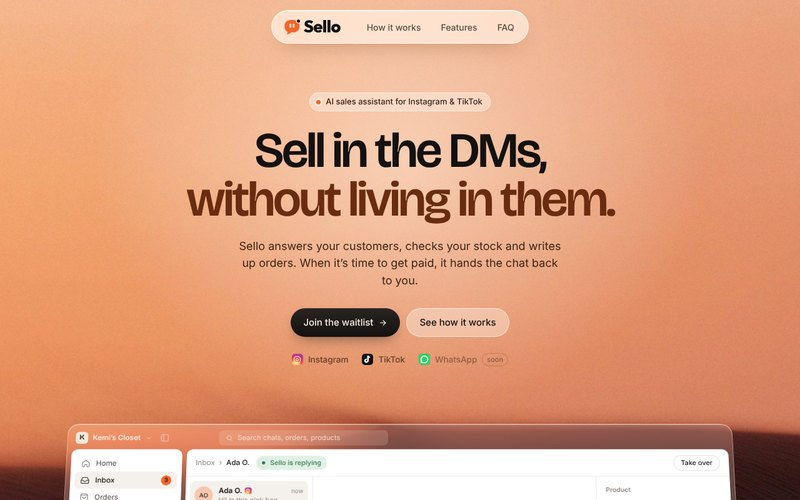
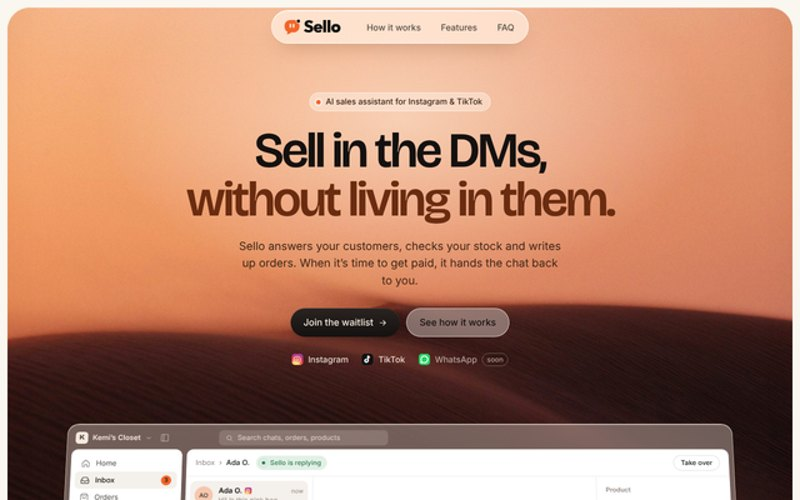
Sello: seamless hero, simpler floating CTA, higher-contrast feature cards
- Hero photo sits on a rounded canvas that stops mid-dashboard, so the
  product bridges into the next section with no fade band
- Floating waitlist button springs up from below the screen once the
  hero button is out of sight, and drops away near the final CTA
- Feature backdrops are crisp, dimmed blurred windows; cards are solid
  with a hairline ring and layered shadow
- Keep backdrop blur under reduced motion

Claude-Session: https://claude.ai/code/session_01AhNeQxAZetA7TYecp9egBs

diff --git a/sello/styles.css b/sello/styles.css
@@ -175,10 +175,11 @@ ul, ol { list-style: none; }
 /* =========================================================
    HERO — dusk photo, centred copy, dashboard that zooms in
    ========================================================= */
-.hero { --py: 0px; --hz: 0; position: relative; overflow: hidden; isolation: isolate; padding: 148px 0 120px; background: var(--sky-1); }
-.hero::after { content: ""; position: absolute; left: 0; right: 0; bottom: 0; height: 220px; z-index: 1; background: linear-gradient(180deg, rgba(250, 246, 240, 0), var(--bg) 92%); pointer-events: none; }
-.hero__scene { position: absolute; inset: 0; z-index: 0; }
-.hero__bg { position: absolute; left: 0; top: 0; width: 100%; height: 100%; max-width: none; object-fit: cover; object-position: 50% 58%; transform: translate3d(0, calc(var(--py) * .3), 0) scale(calc(1.04 + var(--hz) * .04)); transform-origin: 50% 30%; will-change: transform; }
+.hero { --py: 0px; --hz: 0; --stage-h: 660px; --hero-pb: 40px; --frame: 12px; --frame-r: 36px; position: relative; overflow: visible; overflow-x: clip; isolation: isolate; padding: 148px 0 var(--hero-pb); background: var(--bg); }
+/* the photo lives on a rounded canvas that stops halfway down the product, so the dashboard bridges straight into the page */
+.hero__scene { position: absolute; top: var(--frame); left: var(--frame); right: var(--frame); bottom: calc(var(--hero-pb) + var(--stage-h) * .46); z-index: 0; overflow: hidden; border-radius: var(--frame-r); background: var(--sky-1); box-shadow: inset 0 0 0 1px rgba(80, 30, 8, .06); }
+.hero__scene::after { content: ""; position: absolute; inset: 0; border-radius: inherit; box-shadow: inset 0 -60px 100px -60px rgba(60, 20, 4, .22), inset 0 1px 0 rgba(255, 255, 255, .25); pointer-events: none; }
+.hero__bg { position: absolute; left: 0; top: 0; width: 100%; height: 100%; max-width: none; object-fit: cover; object-position: 50% 30%; transform: translate3d(0, calc(var(--py) * .3), 0) scale(calc(1.04 + var(--hz) * .04)); transform-origin: 50% 30%; will-change: transform; }
 .hero__haze { position: absolute; inset: 0; background: radial-gradient(55% 40% at 50% 18%, rgba(255, 232, 214, .65), transparent 70%); }
 .hero__inner { position: relative; z-index: 2; }
 .hero__copy { max-width: 820px; margin: 0 auto; text-align: center; display: flex; flex-direction: column; align-items: center; }
@@ -186,10 +187,10 @@ ul, ol { list-style: none; }
 .hero__title em { font-style: normal; color: #6A2C10; }
 .hero__sub { margin-top: 22px; max-width: 520px; font-size: 18px; line-height: 1.55; color: #3B2417; text-wrap: pretty; }
 .hero__ctas { display: flex; flex-wrap: wrap; justify-content: center; gap: 10px; margin-top: 30px; }
-.hero__channels { display: flex; flex-wrap: wrap; justify-content: center; gap: 10px 22px; margin-top: 26px; font-size: 13.5px; font-weight: 500; color: rgba(59, 36, 23, .78); }
+.hero__channels { display: flex; flex-wrap: wrap; justify-content: center; gap: 10px 22px; margin-top: 26px; font-size: 13.5px; font-weight: 500; color: rgba(255, 242, 232, .88); text-shadow: 0 1px 8px rgba(40, 12, 2, .35); }
 .hero__channels li { display: inline-flex; align-items: center; gap: 8px; }
-.hero__channels li.is-soon { color: rgba(59, 36, 23, .5); }
-.hero__channels li span { font-size: 11px; padding: 1px 7px; border-radius: 999px; border: 1px solid rgba(59, 36, 23, .2); }
+.hero__channels li.is-soon { color: rgba(255, 242, 232, .6); }
+.hero__channels li span { font-size: 11px; padding: 1px 7px; border-radius: 999px; border: 1px solid rgba(255, 242, 232, .3); }
 .js [data-split] .w { display: inline-block; opacity: 0; transform: translateY(0.3em); filter: blur(8px); transition: opacity .9s var(--ease), transform 1s var(--ease), filter .9s var(--ease); transition-delay: calc(var(--i) * 50ms + 100ms); }
 .js [data-split].is-in .w { opacity: 1; transform: none; filter: none; }
 .js [data-rise] { opacity: 0; transform: translateY(12px); transition: opacity .9s var(--ease), transform 1s var(--ease); }
@@ -198,11 +199,11 @@ ul, ol { list-style: none; }
 .js .hero.is-in .hero__ctas { transition-delay: .5s; }
 .js .hero.is-in .hero__channels { transition-delay: .6s; }
 
-.hero__stage { position: relative; z-index: 2; width: min(1180px, calc(100% - var(--gutter) * 2)); height: 660px; margin: 56px auto 0; perspective: 1800px; }
+.hero__stage { position: relative; z-index: 2; width: min(1180px, calc(100% - var(--gutter) * 2)); height: var(--stage-h); margin: 56px auto 0; perspective: 1800px; }
 .hero__stage-inner { position: absolute; inset: 0; transform-origin: 50% 0%; transform: translate3d(0, calc((1 - var(--hz)) * 36px), 0) scale(calc(.9 + var(--hz) * .1)) rotateX(calc((1 - var(--hz)) * 9deg)); will-change: transform; }
 .js .hero__stage { opacity: 0; translate: 0 60px; transition: opacity 1.2s var(--ease) .45s, translate 1.5s var(--ease) .45s; }
 .js .hero.is-in .hero__stage { opacity: 1; translate: 0 0; }
-.hero .dash { background: rgba(255, 238, 226, .22); border-color: rgba(255, 236, 222, .45); box-shadow: inset 0 1px 0 rgba(255, 255, 255, .55), 0 60px 120px -50px rgba(40, 12, 2, .8), 0 0 0 1px rgba(60, 20, 6, .08); }
+.hero .dash { background: rgba(255, 240, 230, .34); border-color: rgba(255, 240, 228, .6); backdrop-filter: blur(18px) saturate(1.2); -webkit-backdrop-filter: blur(18px) saturate(1.2); box-shadow: inset 0 1px 0 rgba(255, 255, 255, .6), 0 0 0 1px rgba(60, 20, 6, .07), 0 2px 4px rgba(60, 20, 6, .05), 0 40px 80px -40px rgba(70, 26, 6, .45), 0 90px 140px -70px rgba(70, 26, 6, .35); }
 .hero .dash__top { color: rgba(255, 244, 236, .92); }
 .hero .dash__panelico { opacity: .7; }
 .hero .dash__search { background: rgba(255, 244, 236, .16); color: rgba(255, 244, 236, .75); }
@@ -211,11 +212,13 @@ ul, ol { list-style: none; }
 /* =========================================================
    FLOATING WAITLIST BUTTON
    ========================================================= */
-.float-cta { position: fixed; left: 50%; bottom: 26px; z-index: 60; transform: translateX(-50%); opacity: 0; pointer-events: none; box-shadow: 0 20px 44px -16px rgba(20, 17, 16, .6), 0 0 0 5px rgba(255, 252, 248, .55); transition: opacity .25s ease, box-shadow .3s ease; }
-.float-cta.is-on { opacity: 1; pointer-events: auto; }
+.float-cta { position: fixed; left: 50%; bottom: max(24px, env(safe-area-inset-bottom)); z-index: 60; visibility: hidden; pointer-events: none; transform: translate3d(-50%, calc(100% + 60px), 0); box-shadow: 0 20px 44px -16px rgba(20, 17, 16, .6), 0 0 0 5px rgba(255, 252, 248, .6); transition: transform .38s cubic-bezier(.55, 0, .8, .4), visibility 0s linear .38s, box-shadow .3s ease; }
+.float-cta.is-on { visibility: visible; pointer-events: auto; transform: translate3d(-50%, 0, 0); transition: transform .62s cubic-bezier(.32, 1.45, .52, 1), visibility 0s, box-shadow .3s ease; }
+.float-cta .btn__arrow { transition: transform .5s var(--ease); }
+.float-cta:not(.is-on) .btn__arrow { transform: translateX(-6px); }
+.float-cta.is-on .btn__arrow { transition-delay: .25s; }
 .float-cta.is-on:hover { box-shadow: 0 24px 50px -16px rgba(20, 17, 16, .7), 0 0 0 5px rgba(255, 252, 248, .75); }
-[data-fly-origin], [data-fly-target] { transition: opacity .2s ease; }
-.is-away { opacity: 0 !important; pointer-events: none; }
+.float-cta.is-on:active { transform: translate3d(-50%, 0, 0) scale(.97); }
 
 /* =========================================================
    HOW — Calendly-style list + gradient stage with floating card
@@ -325,7 +328,11 @@ ul, ol { list-style: none; }
 .frow__text h3 { font-size: 17px; font-weight: 600; letter-spacing: -0.01em; }
 .frow__text p { margin-top: 8px; max-width: 320px; font-size: 15px; line-height: 1.6; color: var(--muted); }
 .frow__media { --mz: 1; position: relative; justify-self: center; width: min(460px, 100%); aspect-ratio: 1.08; display: grid; place-items: center; }
-.frow__bg { position: absolute; inset: 6% 10%; width: 80%; height: 88%; max-width: none; object-fit: cover; border-radius: 48px; -webkit-mask-image: linear-gradient(90deg, transparent, #000 12%, #000 88%, transparent), linear-gradient(180deg, transparent, #000 12%, #000 88%, transparent); -webkit-mask-composite: source-in; mask-image: linear-gradient(90deg, transparent, #000 12%, #000 88%, transparent), linear-gradient(180deg, transparent, #000 12%, #000 88%, transparent); mask-composite: intersect; filter: saturate(1.1) blur(6px); transform: scale(calc(var(--mz) * .86)); opacity: 0; transition: opacity 1.1s ease, transform .2s linear; }
+.frow__media { --tile-r: 40px; }
+/* backdrop: a crisp rounded window onto a blurred, slightly dimmed photo, so the white UI in front reads clearly */
+.frow__bg { position: absolute; inset: 5% 8%; width: 84%; height: 90%; max-width: none; object-fit: cover; border-radius: var(--tile-r); clip-path: inset(0 round var(--tile-r)); filter: blur(16px) saturate(1.25) brightness(.8) contrast(1.05); transform: scale(calc(var(--mz) * .86)); opacity: 0; transition: opacity 1.1s ease, transform .2s linear; }
+.frow__media::before { content: ""; position: absolute; inset: 5% 8%; z-index: 0; border-radius: var(--tile-r); background: radial-gradient(70% 60% at 50% 45%, transparent 40%, rgba(24, 10, 4, .22)), linear-gradient(180deg, rgba(255, 255, 255, .06), rgba(24, 10, 4, .12)); box-shadow: inset 0 0 0 1px rgba(255, 255, 255, .2), inset 0 1px 0 rgba(255, 255, 255, .35), 0 50px 90px -50px rgba(60, 24, 6, .6); transform: scale(calc(var(--mz) * .86)); opacity: 0; transition: opacity 1.1s ease, transform .2s linear; pointer-events: none; }
+.frow.is-in .frow__media::before { opacity: 1; transform: scale(var(--mz)); }
 .frow.is-in .frow__bg { opacity: 1; transform: scale(var(--mz)); }
 .frow__tile { position: relative; z-index: 1; display: grid; place-items: center; transform: translateY(36px) scale(.92); opacity: 0; filter: blur(6px); transition: transform 1.1s var(--ease) .15s, opacity .8s ease .15s, filter .8s ease .15s; }
 .frow.is-in .frow__tile { transform: none; opacity: 1; filter: none; }
@@ -335,11 +342,17 @@ ul, ol { list-style: none; }
 .frow.is-in .frow__links li:nth-child(2) { transition-delay: .08s, .08s, 0s; }
 .frow.is-in .frow__links li:nth-child(3) { transition-delay: .16s, .16s, 0s; }
 @media (hover: hover) { .frow__links li:hover { color: var(--orange-text); } }
-.frow__tile .stockcard, .frow__tile .summary, .frow__tile .tone, .frow__tile .handoff { box-shadow: 0 30px 60px -28px rgba(58, 24, 8, .55); }
-.frow__tile .tone { width: 300px; padding: 14px; border-radius: 22px; background: rgba(255, 252, 248, .82); backdrop-filter: blur(12px); -webkit-backdrop-filter: blur(12px); }
-.frow__tile .handoff { width: 300px; padding: 14px; border-radius: 22px; background: rgba(255, 252, 248, .6); backdrop-filter: blur(12px); -webkit-backdrop-filter: blur(12px); }
+/* cards: solid surfaces with a hairline ring and layered shadow so they lift off the backdrop */
+.frow__tile { --lift: 0 0 0 1px rgba(40, 18, 8, .07), 0 1px 2px rgba(40, 18, 8, .1), 0 14px 28px -12px rgba(40, 18, 8, .35), 0 44px 80px -30px rgba(26, 8, 2, .6); }
+.frow__tile .stockcard, .frow__tile .summary, .frow__tile .tone, .frow__tile .handoff { background: #FFFCF8; box-shadow: var(--lift); }
+.frow__tile .stockcard { width: 224px; padding: 10px; border-radius: 20px; }
+.frow__tile .summary { width: 268px; padding: 18px; border-radius: 22px; }
+.frow__tile .tone, .frow__tile .handoff { width: 304px; padding: 14px; border-radius: 24px; }
+.frow__tile .handoff__msg p { background: #F2EAE1; box-shadow: none; }
+.frow__tile .printer { filter: drop-shadow(0 1px 1px rgba(40, 18, 8, .12)) drop-shadow(0 24px 30px rgba(26, 8, 2, .4)); }
+.frow__tile .printer__paper { box-shadow: none; }
 
-.lock { width: 252px; height: 318px; padding: 30px 14px 14px; border-radius: 38px; color: #fff; text-align: center; background: linear-gradient(180deg, rgba(44, 24, 16, .5), rgba(22, 12, 9, .78)); border: 1px solid rgba(255, 255, 255, .2); backdrop-filter: blur(16px); -webkit-backdrop-filter: blur(16px); box-shadow: 0 36px 70px -30px rgba(30, 10, 2, .8); }
+.lock { width: 252px; height: 318px; padding: 30px 14px 14px; border-radius: 38px; color: #fff; text-align: center; background: linear-gradient(180deg, rgba(44, 24, 16, .5), rgba(22, 12, 9, .78)); border: 1px solid rgba(255, 255, 255, .28); backdrop-filter: blur(16px); -webkit-backdrop-filter: blur(16px); box-shadow: inset 0 1px 0 rgba(255, 255, 255, .3), 0 0 0 1px rgba(20, 8, 2, .25), 0 44px 80px -30px rgba(20, 6, 0, .85); }
 .lock__time { font-family: var(--display); font-weight: 600; font-size: 66px; line-height: 1; letter-spacing: -0.05em; }
 .lock__date { margin-top: 6px; font-size: 12.5px; opacity: .78; }
 .lock__note { display: flex; align-items: flex-start; gap: 10px; margin-top: 22px; padding: 10px 11px; border-radius: 16px; background: rgba(255, 255, 255, .18); backdrop-filter: blur(10px); -webkit-backdrop-filter: blur(10px); text-align: left; font-size: 11.5px; line-height: 1.35; opacity: 0; transform: translateY(12px) scale(.96); transition: opacity .6s ease .6s, transform .8s var(--ease) .6s; }
@@ -679,7 +692,7 @@ ul, ol { list-style: none; }
 
 @media (max-width: 1024px) {
   :root { --gutter: 32px; }
-  .hero__stage { height: 600px; }
+  .hero { --stage-h: 600px; }
   .dash__body { grid-template-columns: 176px minmax(0, 1fr); }
   .dash__search { display: none; }
   .how__grid { grid-template-columns: 1fr; gap: 40px; }
@@ -711,8 +724,8 @@ ul, ol { list-style: none; }
   .nav__sheet a:not(.btn) { padding: 13px 4px; font-family: var(--display); font-weight: 600; font-size: 26px; letter-spacing: -0.03em; border-bottom: 1px solid var(--line); }
   .nav__sheet .btn { margin-top: 16px; }
   @keyframes sheet { from { opacity: 0; transform: translateY(-8px) scale(.98); } to { opacity: 1; transform: none; } }
-  .hero { padding: 132px 0 96px; }
-  .hero__stage { height: 560px; margin-top: 56px; }
+  .hero { --stage-h: 560px; --hero-pb: 32px; --frame: 10px; --frame-r: 30px; padding-top: 132px; }
+  .hero__stage { margin-top: 56px; }
   .faq__grid { grid-template-columns: 1fr; gap: 32px; }
   .faq__head { position: static; }
   .frow__grid { grid-template-columns: 1fr; grid-template-areas: "media" "text" "links"; min-height: 0; padding: 28px 0 48px; gap: 18px; }
@@ -734,13 +747,13 @@ ul, ol { list-style: none; }
 @media (max-width: 640px) {
   :root { --gutter: 20px; }
   .logo-lockup { height: 24px; }
-  .hero { padding: 112px 0 80px; }
+  .hero { --stage-h: 480px; --hero-pb: 24px; --frame: 8px; --frame-r: 26px; padding-top: 112px; }
   .hero__title { font-size: clamp(42px, 12vw, 56px); }
   .hero__sub { font-size: 16.5px; }
   .hero__ctas { width: 100%; }
   .hero__ctas .btn { flex: 1 1 auto; }
   .pill--glass { font-size: 12px; }
-  .hero__stage { width: calc(100% - 24px); height: 480px; margin-top: 44px; }
+  .hero__stage { width: calc(100% - 24px); margin-top: 44px; }
   .dash { padding: 6px; border-radius: 18px; }
   .main__head { padding: 0 12px; gap: 8px; }
   .main__head .btn { display: none; }
@@ -815,6 +828,8 @@ ul, ol { list-style: none; }
 
 @media (prefers-reduced-motion: reduce) {
   *, *::before, *::after { animation-duration: .01ms !important; animation-iteration-count: 1 !important; transition-duration: .01ms !important; transition-delay: 0s !important; scroll-behavior: auto !important; }
-  .js [data-reveal], .js [data-rise], .js [data-split] .w, .js .hero__stage, .frow__bg, .frow__tile, .frow__links li, .lock__note { opacity: 1 !important; transform: none !important; translate: none !important; filter: none !important; }
+  .js [data-reveal], .js [data-rise], .js [data-split] .w, .js .hero__stage, .frow__tile, .frow__links li, .lock__note { opacity: 1 !important; transform: none !important; translate: none !important; filter: none !important; }
+  .frow__bg, .frow__media::before { opacity: 1 !important; transform: none !important; }
+  .float-cta, .float-cta.is-on { transition: visibility 0s !important; }
   .hero__stage-inner { transform: none !important; }
 }

diff --git a/sello/script.js b/sello/script.js
@@ -138,68 +138,28 @@
   }
   const requestTick = () => { if (!ticking) { ticking = true; requestAnimationFrame(onScroll); } };
 
-  /* ---------- floating waitlist button: lifts off the hero, floats, lands in the CTA ---------- */
+  /* ---------- floating waitlist button: rises from the bottom once the hero button is out of sight ---------- */
   const floatCta = (() => {
     const fl = $('[data-float-cta]');
     const origin = $('[data-fly-origin]');
-    const target = $('[data-fly-target]');
-    if (!fl || !origin || !target) return { update() {} };
-    let state = 'origin', rest = null, flight = null, cur = null;
-    target.classList.add('is-away');
-    const box = r => ({ cx: r.left + r.width / 2, cy: r.top + r.height / 2, w: r.width, h: r.height });
-    function measureRest() {
-      fl.style.translate = ''; fl.style.scale = '';
-      rest = box(fl.getBoundingClientRect());
-    }
-    const show = on => {
-      fl.classList.toggle('is-on', on);
-      fl.setAttribute('aria-hidden', String(!on));
-      fl.tabIndex = on ? 0 : -1;
+    const cta = $('#waitlist');
+    if (!fl || !origin) return { update() {} };
+    let on = false;
+    const show = v => {
+      if (v === on) return;
+      on = v;
+      fl.classList.toggle('is-on', v);
+      fl.setAttribute('aria-hidden', String(!v));
+      fl.tabIndex = v ? 0 : -1;
     };
-    function apply(b) {
-      const z = zoom();
-      fl.style.translate = `${((b.cx - rest.cx) / z).toFixed(2)}px ${((b.cy - rest.cy) / z).toFixed(2)}px`;
-      fl.style.scale = `${(b.w / rest.w).toFixed(4)} ${(b.h / rest.h).toFixed(4)}`;
-    }
-    const restBox = () => rest;
-    const elBox = el => () => box(el.getBoundingClientRect());
-    function fly(from, to, done) {
-      if (!rest) measureRest();
-      const start = cur ? { ...cur } : from();
-      const t0 = performance.now(), dur = 720;
-      if (flight) cancelAnimationFrame(flight.raf);
-      show(true);
-      flight = { raf: 0 };
-      const step = now => {
-        const t = easeInOut(clamp((now - t0) / dur));
-        const b = to();
-        cur = { cx: lerp(start.cx, b.cx, t), cy: lerp(start.cy, b.cy, t), w: lerp(start.w, b.w, t), h: lerp(start.h, b.h, t) };
-        apply(cur);
-        if (t < 1) flight.raf = requestAnimationFrame(step);
-        else { flight = null; cur = null; done && done(); }
-      };
-      flight.raf = requestAnimationFrame(step);
-    }
-    function toFloat(fromEl) {
-      fromEl.classList.add('is-away');
-      if (reduceMotion) { show(true); return; }
-      fly(elBox(fromEl), restBox, () => { fl.style.translate = ''; fl.style.scale = ''; });
-    }
-    function land(el) {
-      if (reduceMotion) { show(false); el.classList.remove('is-away'); return; }
-      fly(restBox, elBox(el), () => { el.classList.remove('is-away'); show(false); fl.style.translate = ''; fl.style.scale = ''; });
-    }
-    window.addEventListener('resize', () => { if (!flight) measureRest(); });
     return {
       update() {
-        if (!rest) measureRest();
         const vh = window.innerHeight;
-        const o = origin.getBoundingClientRect();
-        const t = target.getBoundingClientRect();
-        if (state === 'origin' && o.top < 72) { state = 'float'; toFloat(origin); }
-        else if (state === 'float' && o.top > 96) { state = 'origin'; land(origin); }
-        else if (state === 'float' && t.top < vh - 120 && t.bottom > 0) { state = 'target'; land(target); }
-        else if (state === 'target' && t.top > vh - 70) { state = 'float'; toFloat(target); }
+        // the hero button counts as gone once it slips under the floating nav
+        const heroGone = origin.getBoundingClientRect().bottom < 76;
+        // step aside once the waitlist section comes up, so there's never two of the same button on screen
+        const ctaNear = cta ? cta.getBoundingClientRect().top < vh * 0.85 : false;
+        show(heroGone && !ctaNear);
       },
     };
   })();
